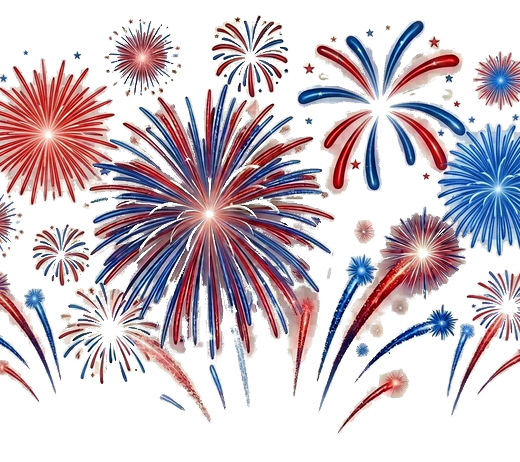
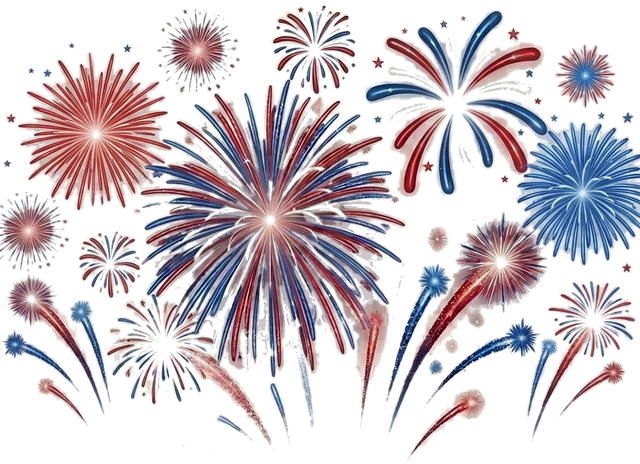
Refine Saturday fireworks overlay

diff --git a/styles.css b/styles.css
@@ -3976,6 +3976,13 @@ button { -webkit-tap-highlight-color: transparent; }
 .food-day {
   position: relative;
   overflow: visible;
+  isolation: isolate;
+}
+
+.food-day b,
+.food-day small {
+  position: relative;
+  z-index: 2;
 }
 
 .food-day[data-food-day="sat"]::before {
@@ -3985,11 +3992,13 @@ button { -webkit-tap-highlight-color: transparent; }
 }
 
 .food-day[data-food-day="sat"]::before {
-  top: -34px;
+  top: auto;
+  bottom: 16px;
   left: 50%;
-  z-index: 2;
-  width: 44px;
-  height: 39px;
+  z-index: 1;
+  width: calc(100% - 4px);
+  max-width: 72px;
+  height: 72px;
   border-radius: 0;
   background: url("assets/saturday-fireworks.png") center bottom / contain no-repeat;
   filter: drop-shadow(0 5px 8px rgba(17, 45, 68, 0.18));

diff --git a/index.html b/index.html
@@ -26,7 +26,7 @@
     <link rel="icon" href="assets/icon-192.png" type="image/png">
     <link rel="apple-touch-icon" href="assets/apple-touch-icon.png">
     <link rel="manifest" href="manifest.webmanifest">
-    <link rel="stylesheet" href="styles.css?v=56">
+    <link rel="stylesheet" href="styles.css?v=57">
   </head>
   <body class="auth-open">
     <div class="app-shell">

diff --git a/service-worker.js b/service-worker.js
@@ -1,4 +1,4 @@
-const cacheName = "guantonio-trip-v58";
+const cacheName = "guantonio-trip-v59";
 
 const cacheableUrls = [
   "/",
